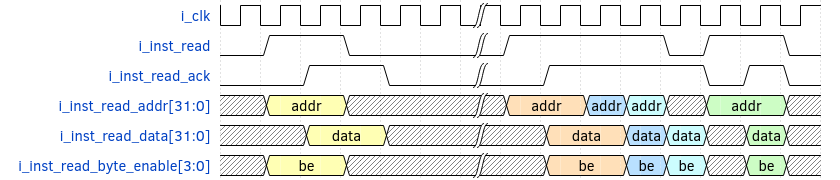
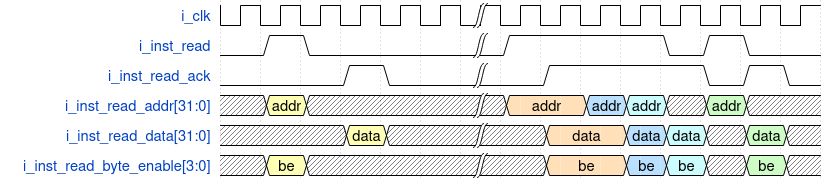
Updating the documentation. The buses need to me adapted to complie with Wishbone bus spec and with the readme. Will now pursue an implementation of the Wishbone pipelined bus per Spec revision B4.

diff --git a/ORC_R32I/source/README.md b/ORC_R32I/source/README.md
@@ -34,16 +34,20 @@ Verilog code for a FIR filter. As new values are fed through the input the filte
 
  ## 1 Syntax and Abbreviations
 
-Characters  | Definition
+Term        | Definition
 :---------- | :----------------------------
 0b0         | Binary number syntax
 0x0000_0000 | Hexadecimal number syntax
+bit         | Single binary digit (0 or 1)
+BYTE        | 8-bits wide data unit
+DWORD       | 32-bits wide data unit
+FPGA        | Field Programmable Gate Array
 HART        | Hardware thread
 HBI         | Handshake Bus Interface
 ISA         | Instruction Set Architecture
 LSB         | Least Significant bit
 MSB         | Most Significant bit
-FPGA        | Field Programmable Gate Array
+
 
 ## 2 Design
 
@@ -70,7 +74,7 @@ The ORC_R32I employs independent interfaces for reading the memory containing th
 
 Signals            | Initial State | Dimension | Direction | Definition
 :----------------- | :-----------: | :-------: | :-------: | :-----------------------
-`o_inst_read`      |      0b0      |   1-bit   |    Out    | Read request signal.
+`o_inst_read_stb`  |      0b0      |   1-bit   |    Out    | Read request signal.
 `i_inst_read_ack`  |      N/A      |   1-bit   |    In     | Read acknowledge signal.
 `o_inst_read_addr` |  0x0000_0000  | `[31:0]`  |    Out    | Read Address signal.
 `i_inst_read_data` |      N/A      | `[31:0]`  |    In     | Read response data.
@@ -79,7 +83,7 @@ Signals            | Initial State | Dimension | Direction | Definition
 
 Signals              | Initial State | Dimension | Direction | Definition
 :------------------- | :-----------: | :-------: | :-------: | :-----------------------
-`o_master_read`      |      0b0      |   1-bit   |    Out    | Read request signal.
+`o_master_read_stb`  |      0b0      |   1-bit   |    Out    | Read request signal.
 `i_master_read_ack`  |      N/A      |   1-bit   |    In     | Read acknowledge signal.
 `o_master_read_addr` |  0x0000_0000  | `[31:0]`  |    Out    | Read Address signal.
 `i_master_read_data` |      N/A      | `[31:0]`  |    In     | Read response data.
@@ -88,7 +92,7 @@ Signals              | Initial State | Dimension | Direction | Definition
 
 Signals                      | Initial State | Dimension | Direction | Definition
 :--------------------------- | :-----------: | :-------: | :-------: | :------------------------
-`o_master_write`             |      0b0      |   1-bit   |    Out    | Write request signal.
+`o_master_write_stb`         |      0b0      |   1-bit   |    Out    | Write request signal.
 `i_master_write_ack`         |      N/A      |   1-bit   |    In     | Write acknowledge signal.
 `o_master_write_addr`        |  0x0000_0000  | `[31:0]`  |    Out    | Write Address signal.
 `i_master_read_data`         |      N/A      | `[31:0]`  |    In     | Write response data.
@@ -122,18 +126,23 @@ Bits | Access |    Reset    | Description
 
 Simulation scripts assumes _Icarus Verilog_ (iverilog) as the simulation tool. From the /sim directory run make. Options available are
 
-Command    | Description
-:--------- | :--------------------------------------------------------------------
-make all   | cleans, compiles and runs the test bench, then it loads the waveform.
-make test  | compiles the test bench and UUT
-make run   | runs the simulation
-make wave  | loads the waveform in gtkwave
-make clean | cleans all the compile and simulation products
+Command              | Description
+:------------------- | :--------------------------------------------------------------------
+`SIM=verilator make` | cleans, compiles and runs the test bench, then it loads the waveform.
+`make clean`         | cleans all the compile and simulation products
 
 ## 9 Synthesis
 
 Synthesis scripts assume _Yosys_ as the tool for synthesizing code and _Lattice ICE HX-8K_ as the target FPGA device.
 
+Command              | Description
+:------------------- | :-----------------------------------------------------
+`yosys syn_ice40.ys` | runs synthesis scripts.
+
 ## 10 Build
 
 Build scripts are written for the Icestorm tool-chain. The target device is the hx8kboard sold by Lattice.
+
+Command    | Description
+:--------- | :-----------------------------------------------------
+`make all` | cleans, compiles and runs synthesis and build scripts.
